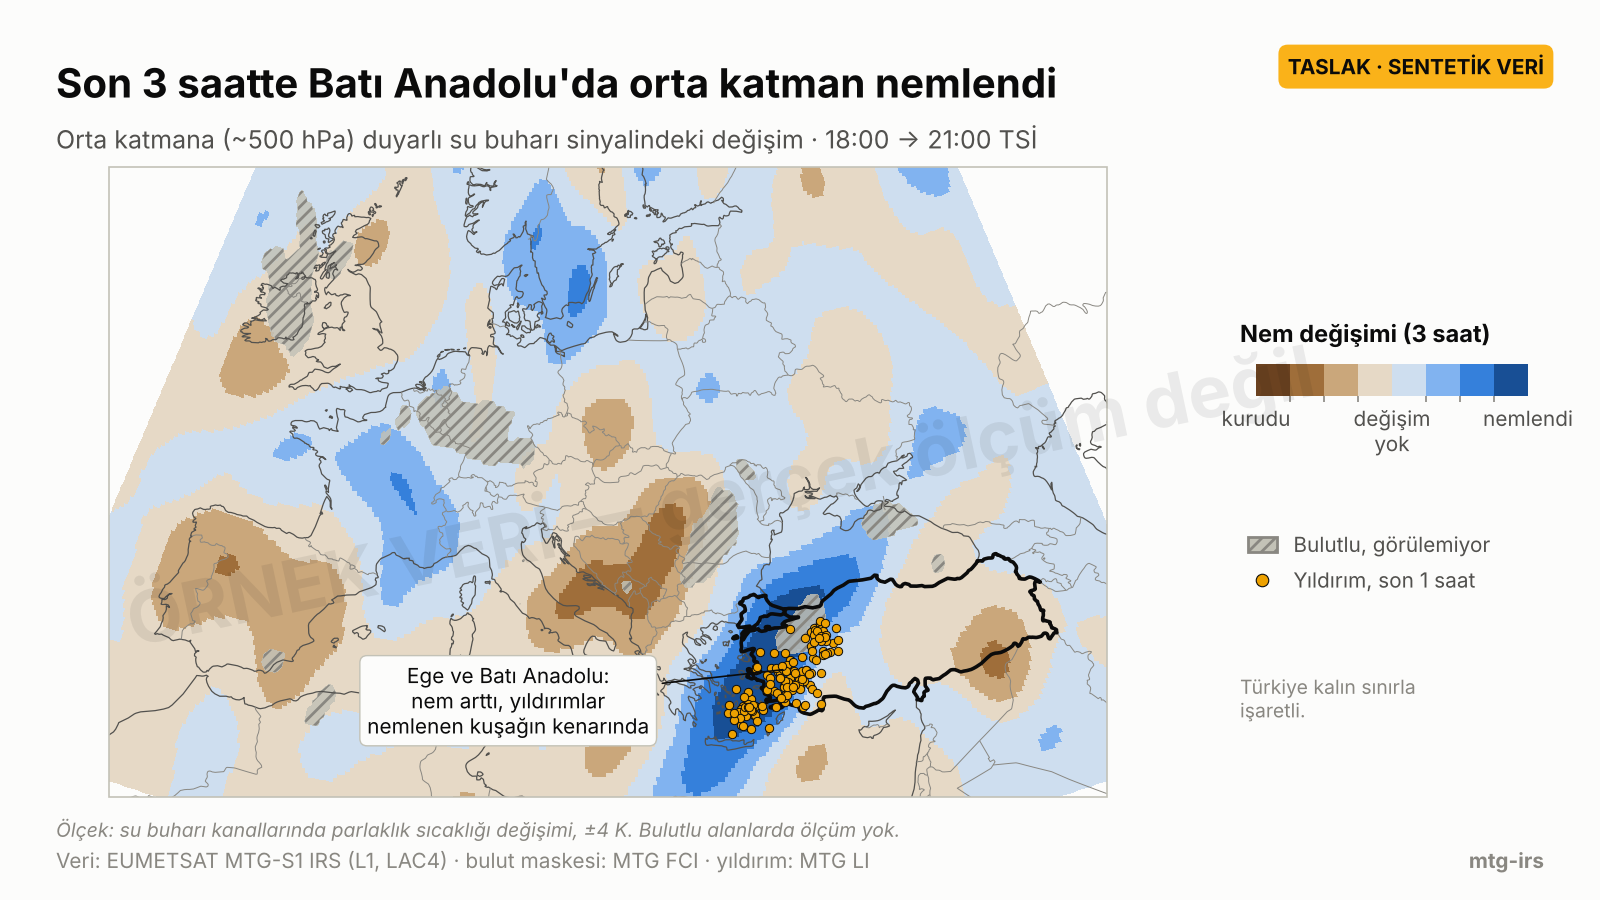
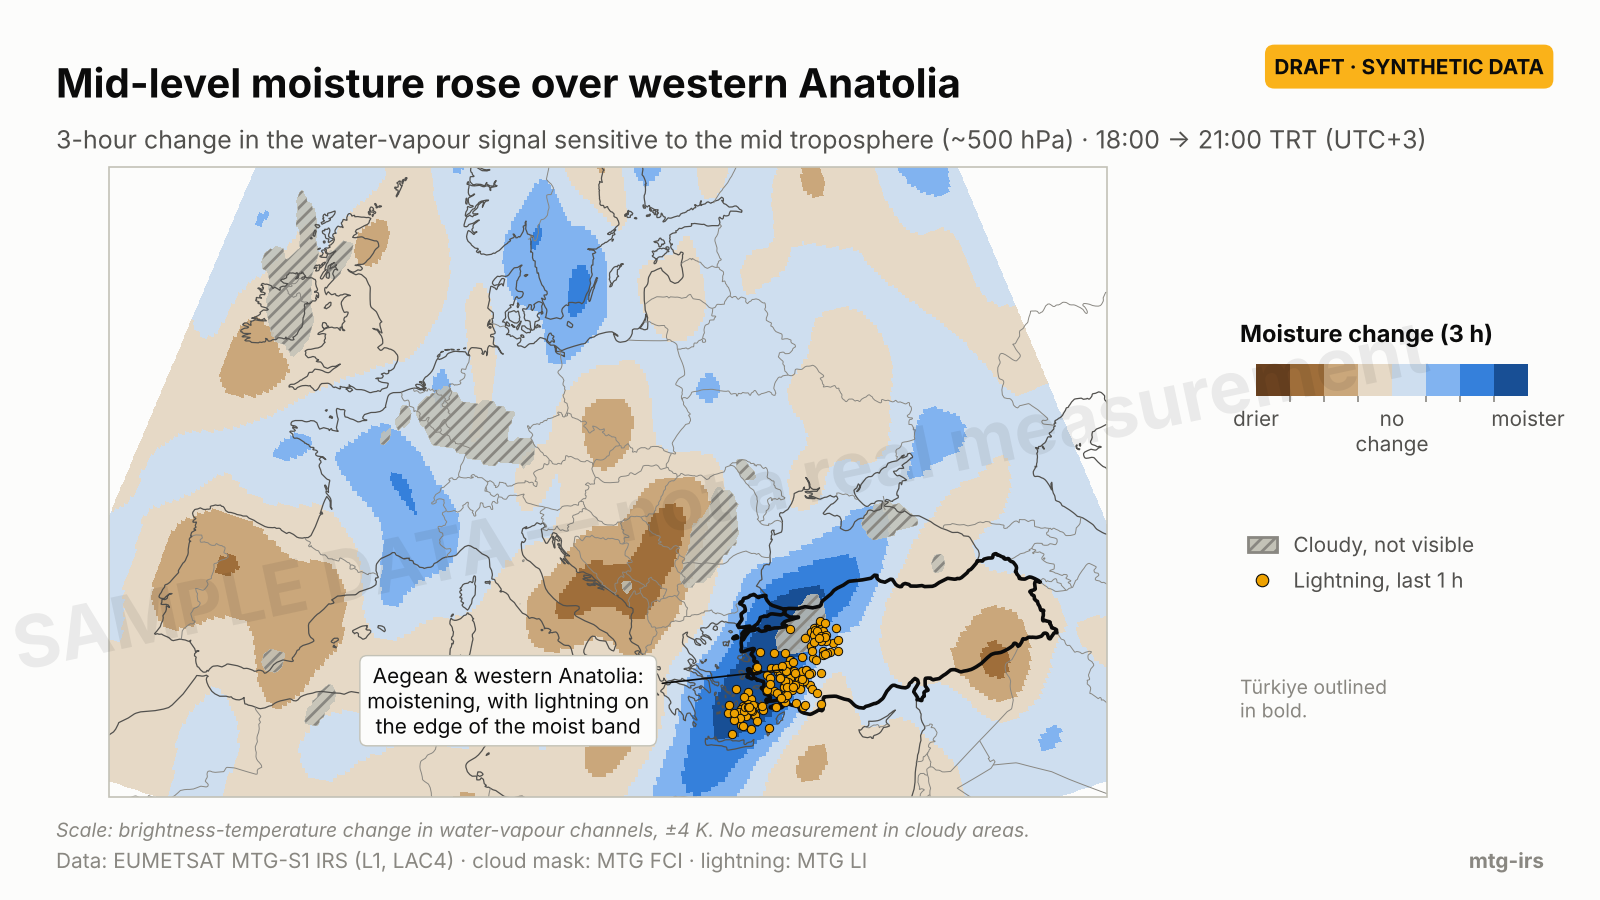
Switch mockup text to English; add project notes
All graphics are produced in English. CLAUDE.md records this convention
and the verified EUMETSAT Data Store facts for IRS.

Claude-Session: https://claude.ai/code/session_01TEk77n2iwRUSx9N3t3pted

diff --git a/docs/taslaklar/fig2_spektrum.py b/docs/taslaklar/fig2_spektrum.py
@@ -51,13 +51,13 @@ def temp_profile(h, ts):
 
 
 WIN = {}
-cities = [("İstanbul", 13.0, 1.0, BLUE), ("Van", -3.0, 0.15, ORANGE)]
+cities = [("Istanbul", 13.0, 1.0, BLUE), ("Van", -3.0, 0.15, ORANGE)]
 
 fig = card(
-    "Bir piksel, 1953 kanal: atmosferin parmak izi",
-    "Her kanal atmosferin farklı bir yüksekliğini 'duyar'. Grafik, kanalın gördüğü sıcaklığı gösterir (°C) · 21:00 TSİ",
-    "Veri: EUMETSAT MTG-S1 IRS (L1, LAC4) · parlaklık sıcaklığı, ~4 km piksel",
-    note="Spektrumun 1210–1600 cm⁻¹ arası IRS tarafından ölçülmüyor.",
+    "One pixel, 1953 channels: the atmosphere's fingerprint",
+    "Each channel 'hears' a different height in the atmosphere. Plotted: the temperature each channel sees (°C) · 21:00 TRT",
+    "Data: EUMETSAT MTG-S1 IRS (L1, LAC4) · brightness temperature, ~4 km pixel",
+    note="IRS does not measure the 1210–1600 cm⁻¹ range.",
 )
 gs = fig.add_gridspec(1, 2, left=0.075, right=0.965, top=0.66, bottom=0.17,
                       width_ratios=[len(nu_l), len(nu_m)], wspace=0.04)
@@ -65,12 +65,12 @@ axl = fig.add_subplot(gs[0])
 axm = fig.add_subplot(gs[1], sharey=axl)
 
 bands_l = [(680, 760, "CO₂", "15 µm"),
-           (790, 980, "Pencere", "11 µm"),
-           (1000, 1075, "Ozon", "9,6 µm"),
-           (1090, 1210, "Pencere", "8,7 µm")]
-bands_m = [(1600, 1990, "Su buharı", "6,3 µm"),
-           (2030, 2160, "Kısmi pencere", "4,8 µm"),
-           (2175, 2250, "N₂O·CO₂", "4,5 µm")]
+           (790, 980, "Window", "11 µm"),
+           (1000, 1075, "Ozone", "9.6 µm"),
+           (1090, 1210, "Window", "8.7 µm")]
+bands_m = [(1600, 1990, "Water vapour", "6.3 µm"),
+           (2030, 2160, "Partial window", "4.8 µm"),
+           (2175, 2250, "N₂O·CO₂", "4.5 µm")]
 
 for ax, nu, bands in [(axl, nu_l, bands_l), (axm, nu_m, bands_m)]:
     ax.set_facecolor(SURFACE)
@@ -95,26 +95,26 @@ for ax, nu, bands in [(axl, nu_l, bands_l), (axm, nu_m, bands_m)]:
 axm.tick_params(labelleft=False)
 axm.spines["left"].set_visible(False)
 axl.set_ylim(-68, 22)
-axl.set_ylabel("Kanalın gördüğü sıcaklık (°C)", fontsize=8)
-fig.text(0.52, 0.105, "Dalga sayısı (cm⁻¹)", ha="center", fontsize=8, color=INK2)
+axl.set_ylabel("Temperature seen by the channel (°C)", fontsize=8)
+fig.text(0.52, 0.105, "Wavenumber (cm⁻¹)", ha="center", fontsize=8, color=INK2)
 
 axl.set_xticks([700, 800, 900, 1000, 1100])
 axm.set_xticks([1700, 1800, 1900, 2000, 2100, 2200])
 
 # direct labels + legend (2 series)
-axl.text(840, WIN["İstanbul"] + 3, "İstanbul (nemli, ılık)", color=INK, fontsize=7.5, fontweight="bold")
-axl.text(840, WIN["Van"] - 7, "Van (kuru, soğuk)", color=INK, fontsize=7.5, fontweight="bold")
+axl.text(840, WIN["Istanbul"] + 3, "Istanbul (moist, mild)", color=INK, fontsize=7.5, fontweight="bold")
+axl.text(840, WIN["Van"] - 7, "Van (dry, cold)", color=INK, fontsize=7.5, fontweight="bold")
 fig.legend(handles=axl.get_lines()[:2], loc="upper left", bbox_to_anchor=(0.03, 0.83), ncol=2,
            frameon=False, fontsize=7.5, handlelength=1.5, labelcolor=INK2)
 
-axl.annotate("CO₂ bandının merkezi\nstratosferi görür: −56 °C", xy=(684, -55), xytext=(790, -60),
+axl.annotate("CO₂ band centre sees\nthe stratosphere: −56 °C", xy=(684, -55), xytext=(790, -60),
              fontsize=7, color=INK, va="center",
              arrowprops=dict(arrowstyle="-", lw=0.5, color=INK))
-axl.annotate(f"Pencere kanalları yere yakın havayı görür:\nİstanbul ≈ {WIN['İstanbul']:+.0f} °C, Van ≈ {WIN['Van']:+.0f} °C".replace("-", "−"),
+axl.annotate(f"Window channels see the air near the ground:\nIstanbul ≈ {WIN['Istanbul']:+.0f} °C, Van ≈ {WIN['Van']:+.0f} °C".replace("-", "−"),
              xy=(930, WIN["Van"]), xytext=(790, -33), fontsize=7, color=INK, ha="left",
              bbox=dict(boxstyle="round,pad=0.3", fc=SURFACE, ec="#c3c2b7", lw=0.5),
              arrowprops=dict(arrowstyle="-", lw=0.5, color=INK))
-axm.annotate("Nemli havada su buharı kanalları\ndaha yukarıyı, yani daha soğuğu görür",
+axm.annotate("In moist air, water-vapour channels\nsee higher up, i.e. colder air",
              xy=(1840, -40), xytext=(1610, 4), fontsize=7, color=INK,
              bbox=dict(boxstyle="round,pad=0.3", fc=SURFACE, ec="#c3c2b7", lw=0.5),
              arrowprops=dict(arrowstyle="-", lw=0.5, color=INK))

diff --git a/docs/taslaklar/fig3_zaman_yukseklik.py b/docs/taslaklar/fig3_zaman_yukseklik.py
@@ -8,7 +8,7 @@ from common import *
 out = sys.argv[1]
 rng = np.random.default_rng(11)
 
-layers = ["~250 hPa", "~300 hPa", "~400 hPa", "~500 hPa", "~600 hPa", "~700 hPa", "~850 hPa", "yere yakın"]
+layers = ["~250 hPa", "~300 hPa", "~400 hPa", "~500 hPa", "~600 hPa", "~700 hPa", "~850 hPa", "near surface"]
 nL, nT = len(layers), 48  # 48 half-hour scans = 24 h
 t = np.arange(nT) / 2.0   # hours since 21:00 yesterday
 z = np.arange(nL)          # 0 = top
@@ -28,10 +28,10 @@ cloud[37:41] = True  # a cloud band passes: no IR measurement below cloud top
 cloud_top = 2        # cloud top near ~400 hPa -> layers below hidden
 
 fig = card(
-    "Ankara üstünde son 24 saat: nem yukarıdan aşağıya indi",
-    "Su buharı kanallarında, her katmanın 24 saatlik ortalamasından sapma · her sütun bir 30 dakikalık tarama",
-    "Veri: EUMETSAT MTG-S1 IRS (L1, LAC4) · Ankara çevresi 20 km ortalama",
-    note="Yükseklikler yaklaşık: kanalın duyarlı olduğu seviye, havanın nemine göre kayar.",
+    "Last 24 h over Ankara: moisture worked its way down",
+    "Departure from each layer's 24-hour mean in water-vapour channels · one column per 30-minute scan · TRT (UTC+3)",
+    "Data: EUMETSAT MTG-S1 IRS (L1, LAC4) · 20 km mean around Ankara",
+    note="Heights are approximate: the level a channel senses shifts with humidity.",
 )
 ax = fig.add_axes([0.11, 0.19, 0.66, 0.58])
 ax.set_facecolor(SURFACE)
@@ -50,7 +50,7 @@ ax.set_yticks(np.arange(nL) + 0.5)
 ax.set_yticklabels(layers, fontsize=7.5)
 hours = np.arange(0, nT + 1, 6)
 ax.set_xticks(hours)
-ax.set_xticklabels(["21:00\ndün", "00:00", "03:00", "06:00", "09:00", "12:00", "15:00", "18:00", "21:00\nbugün"], fontsize=7.5)
+ax.set_xticklabels(["21:00\nyesterday", "00:00", "03:00", "06:00", "09:00", "12:00", "15:00", "18:00", "21:00\ntoday"], fontsize=7.5)
 ax.tick_params(length=0)
 for s in ax.spines.values():
     s.set_visible(False)
@@ -59,7 +59,7 @@ for s in ax.spines.values():
 # guide along the descending signal
 xs = (front_t * 2)
 ax.plot(xs, z + 0.5, color=INK, lw=0.9, ls=(0, (3, 2)))
-ax.annotate("Nemli hava yukarıdan aşağıya\ninerek yaklaşıyor: cephe geliyor",
+ax.annotate("Moist air descending from aloft:\na front is approaching",
             xy=(xs[3], 3.5), xytext=(1, 6.6), fontsize=7.5, color=INK,
             bbox=dict(boxstyle="round,pad=0.35", fc=SURFACE, ec="#c3c2b7", lw=0.5),
             arrowprops=dict(arrowstyle="-", lw=0.6, color=INK))
@@ -67,12 +67,12 @@ ax.annotate("Nemli hava yukarıdan aşağıya\ninerek yaklaşıyor: cephe geliyo
 cax = fig.add_axes([0.80, 0.62, 0.16, 0.035])
 sm = plt.cm.ScalarMappable(norm=norm, cmap=DRY_WET)
 cb = fig.colorbar(sm, cax=cax, orientation="horizontal", ticks=[-4, 0, 4])
-cb.ax.set_xticklabels(["daha\nkuru", "ortalama", "daha\nnemli"], fontsize=7.5, color=INK2)
+cb.ax.set_xticklabels(["drier", "mean", "moister"], fontsize=7.5, color=INK2)
 cb.outline.set_visible(False)
 cb.ax.tick_params(length=0)
-fig.text(0.80, 0.685, "Ortalamaya göre", fontsize=8.5, fontweight="bold", color=INK)
+fig.text(0.80, 0.685, "Relative to mean", fontsize=8.5, fontweight="bold", color=INK)
 fig.legend(handles=[Patch(facecolor="#c3c2b7", edgecolor="#898781", hatch="/////",
-                          label="Bulutun altı, görülemiyor")],
+                          label="Below cloud, not visible")],
            loc="upper left", bbox_to_anchor=(0.795, 0.48), frameon=False, fontsize=7.5,
            labelcolor=INK2, handlelength=1.4)
 

diff --git a/docs/taslaklar/fig1_degisim.py b/docs/taslaklar/fig1_degisim.py
@@ -45,10 +45,10 @@ cx = np.r_[rng.normal(28.6, 0.9, n // 2), rng.normal(31.0, 0.7, n // 4), rng.nor
 cy = np.r_[rng.normal(37.9, 0.6, n // 2), rng.normal(39.6, 0.5, n // 4), rng.normal(36.6, 0.4, n // 4)]
 
 fig = card(
-    "Son 3 saatte Batı Anadolu'da orta katman nemlendi",
-    "Orta katmana (~500 hPa) duyarlı su buharı sinyalindeki değişim · 18:00 → 21:00 TSİ",
-    "Veri: EUMETSAT MTG-S1 IRS (L1, LAC4) · bulut maskesi: MTG FCI · yıldırım: MTG LI",
-    note="Ölçek: su buharı kanallarında parlaklık sıcaklığı değişimi, ±4 K. Bulutlu alanlarda ölçüm yok.",
+    "Mid-level moisture rose over western Anatolia",
+    "3-hour change in the water-vapour signal sensitive to the mid troposphere (~500 hPa) · 18:00 → 21:00 TRT (UTC+3)",
+    "Data: EUMETSAT MTG-S1 IRS (L1, LAC4) · cloud mask: MTG FCI · lightning: MTG LI",
+    note="Scale: brightness-temperature change in water-vapour channels, ±4 K. No measurement in cloudy areas.",
 )
 proj = ccrs.LambertConformal(central_longitude=18, central_latitude=46, standard_parallels=(35, 55))
 ax = fig.add_axes([0.035, 0.115, 0.69, 0.70], projection=proj)
@@ -76,7 +76,7 @@ ax.add_geometries([rec.geometry], ccrs.PlateCarree(), facecolor="none", edgecolo
 
 ax.scatter(cx, cy, s=9, c=YELLOW, edgecolors=INK, linewidths=0.35, transform=ccrs.PlateCarree(), zorder=5)
 
-ax.annotate("Ege ve Batı Anadolu:\nnem arttı, yıldırımlar\nnemlenen kuşağın kenarında",
+ax.annotate("Aegean & western Anatolia:\nmoistening, with lightning on\nthe edge of the moist band",
             xy=(28.8, 38.4), xycoords=ccrs.PlateCarree()._as_mpl_transform(ax),
             xytext=(0.40, 0.10), textcoords="axes fraction", fontsize=7.5, color=INK, ha="center",
             bbox=dict(boxstyle="round,pad=0.35", fc=SURFACE, ec="#c3c2b7", lw=0.5),
@@ -86,17 +86,17 @@ ax.annotate("Ege ve Batı Anadolu:\nnem arttı, yıldırımlar\nnemlenen kuşağ
 cax = fig.add_axes([0.785, 0.56, 0.17, 0.035])
 sm = plt.cm.ScalarMappable(norm=norm, cmap=DRY_WET)
 cb = fig.colorbar(sm, cax=cax, orientation="horizontal", ticks=[-4, 0, 4])
-cb.ax.set_xticklabels(["kurudu", "değişim\nyok", "nemlendi"], fontsize=7.5, color=INK2)
+cb.ax.set_xticklabels(["drier", "no\nchange", "moister"], fontsize=7.5, color=INK2)
 cb.outline.set_visible(False)
 cb.ax.tick_params(length=0)
-fig.text(0.775, 0.62, "Nem değişimi (3 saat)", fontsize=8.5, fontweight="bold", color=INK)
+fig.text(0.775, 0.62, "Moisture change (3 h)", fontsize=8.5, fontweight="bold", color=INK)
 
-handles = [Patch(facecolor="#c3c2b7", edgecolor="#898781", hatch="/////", label="Bulutlu, görülemiyor"),
+handles = [Patch(facecolor="#c3c2b7", edgecolor="#898781", hatch="/////", label="Cloudy, not visible"),
            Line2D([], [], marker="o", ls="none", mfc=YELLOW, mec=INK, mew=0.4, ms=4.5,
-                  label="Yıldırım, son 1 saat")]
+                  label="Lightning, last 1 h")]
 fig.legend(handles=handles, loc="upper left", bbox_to_anchor=(0.768, 0.43), frameon=False,
            fontsize=7.5, labelcolor=INK2, handlelength=1.4)
-fig.text(0.775, 0.25, "Türkiye kalın sınırla\nişaretli.", fontsize=7, color=MUTED, va="top")
+fig.text(0.775, 0.25, "Türkiye outlined\nin bold.", fontsize=7, color=MUTED, va="top")
 
 watermark(fig)
 fig.savefig(out, dpi=DPI, facecolor=SURFACE)

diff --git a/docs/taslaklar/common.py b/docs/taslaklar/common.py
@@ -49,14 +49,14 @@ def card(title, subtitle, source, note=None):
     fig.text(0.965, 0.03, "mtg-irs", fontsize=7.5, color=MUTED, va="bottom", ha="right",
              fontweight="bold")
     # draft badge (label + color, never color alone)
-    fig.text(0.965, 0.94, "TASLAK · SENTETİK VERİ", fontsize=7.5, fontweight="bold",
+    fig.text(0.965, 0.94, "DRAFT · SYNTHETIC DATA", fontsize=7.5, fontweight="bold",
              color=INK, ha="right", va="top",
              bbox=dict(boxstyle="round,pad=0.45", fc=WARNING, ec="none"))
     return fig
 
 
 def watermark(fig):
-    fig.text(0.45, 0.45, "ÖRNEK VERİ — gerçek ölçüm değil", fontsize=26, color=INK,
+    fig.text(0.45, 0.45, "SAMPLE DATA — not a real measurement", fontsize=26, color=INK,
              alpha=0.07, ha="center", va="center", rotation=12, fontweight="bold",
              zorder=100)
 

diff --git a/CLAUDE.md b/CLAUDE.md
@@ -1,0 +1,20 @@
+# mtg-irs — project notes for Claude
+
+## Conventions
+- **All graphics are produced in English** (titles, labels, legends, annotations,
+  footnotes, colour-bar text). This applies even though we talk in Turkish.
+- Conversation with the project owner is in Turkish.
+- Times on graphics: TRT (UTC+3), stated on the card.
+- Every graphic credits its data source, e.g. "Data: EUMETSAT MTG-S1 IRS (L1, LAC4)".
+- Anything made from synthetic data carries a "DRAFT · SYNTHETIC DATA" badge and watermark.
+
+## Data facts (checked 2026-11-17)
+- IRS in the EUMETSAT Data Store is Level 1 only:
+  `EO:EUM:DAT:0737` (300 principal components, ~0.55 GB per product) and
+  `EO:EUM:DAT:0741` (full spectral soundings, 1953 channels, ~4.7 GB per product).
+  No IRS Level 2 collection yet.
+- LAC4 (Europe) is scanned every 30 min, filename tag `Q4`. Each product is split
+  into ~76 chunk files that can be downloaded individually.
+- Search/browse works anonymously; download needs auth.
+- Auth: eumdac 4.x uses OAuth2 with User Portal username/password from
+  `EUMDAC_USER` / `EUMDAC_PW`. Legacy consumer key/secret still works via `--v1`.
